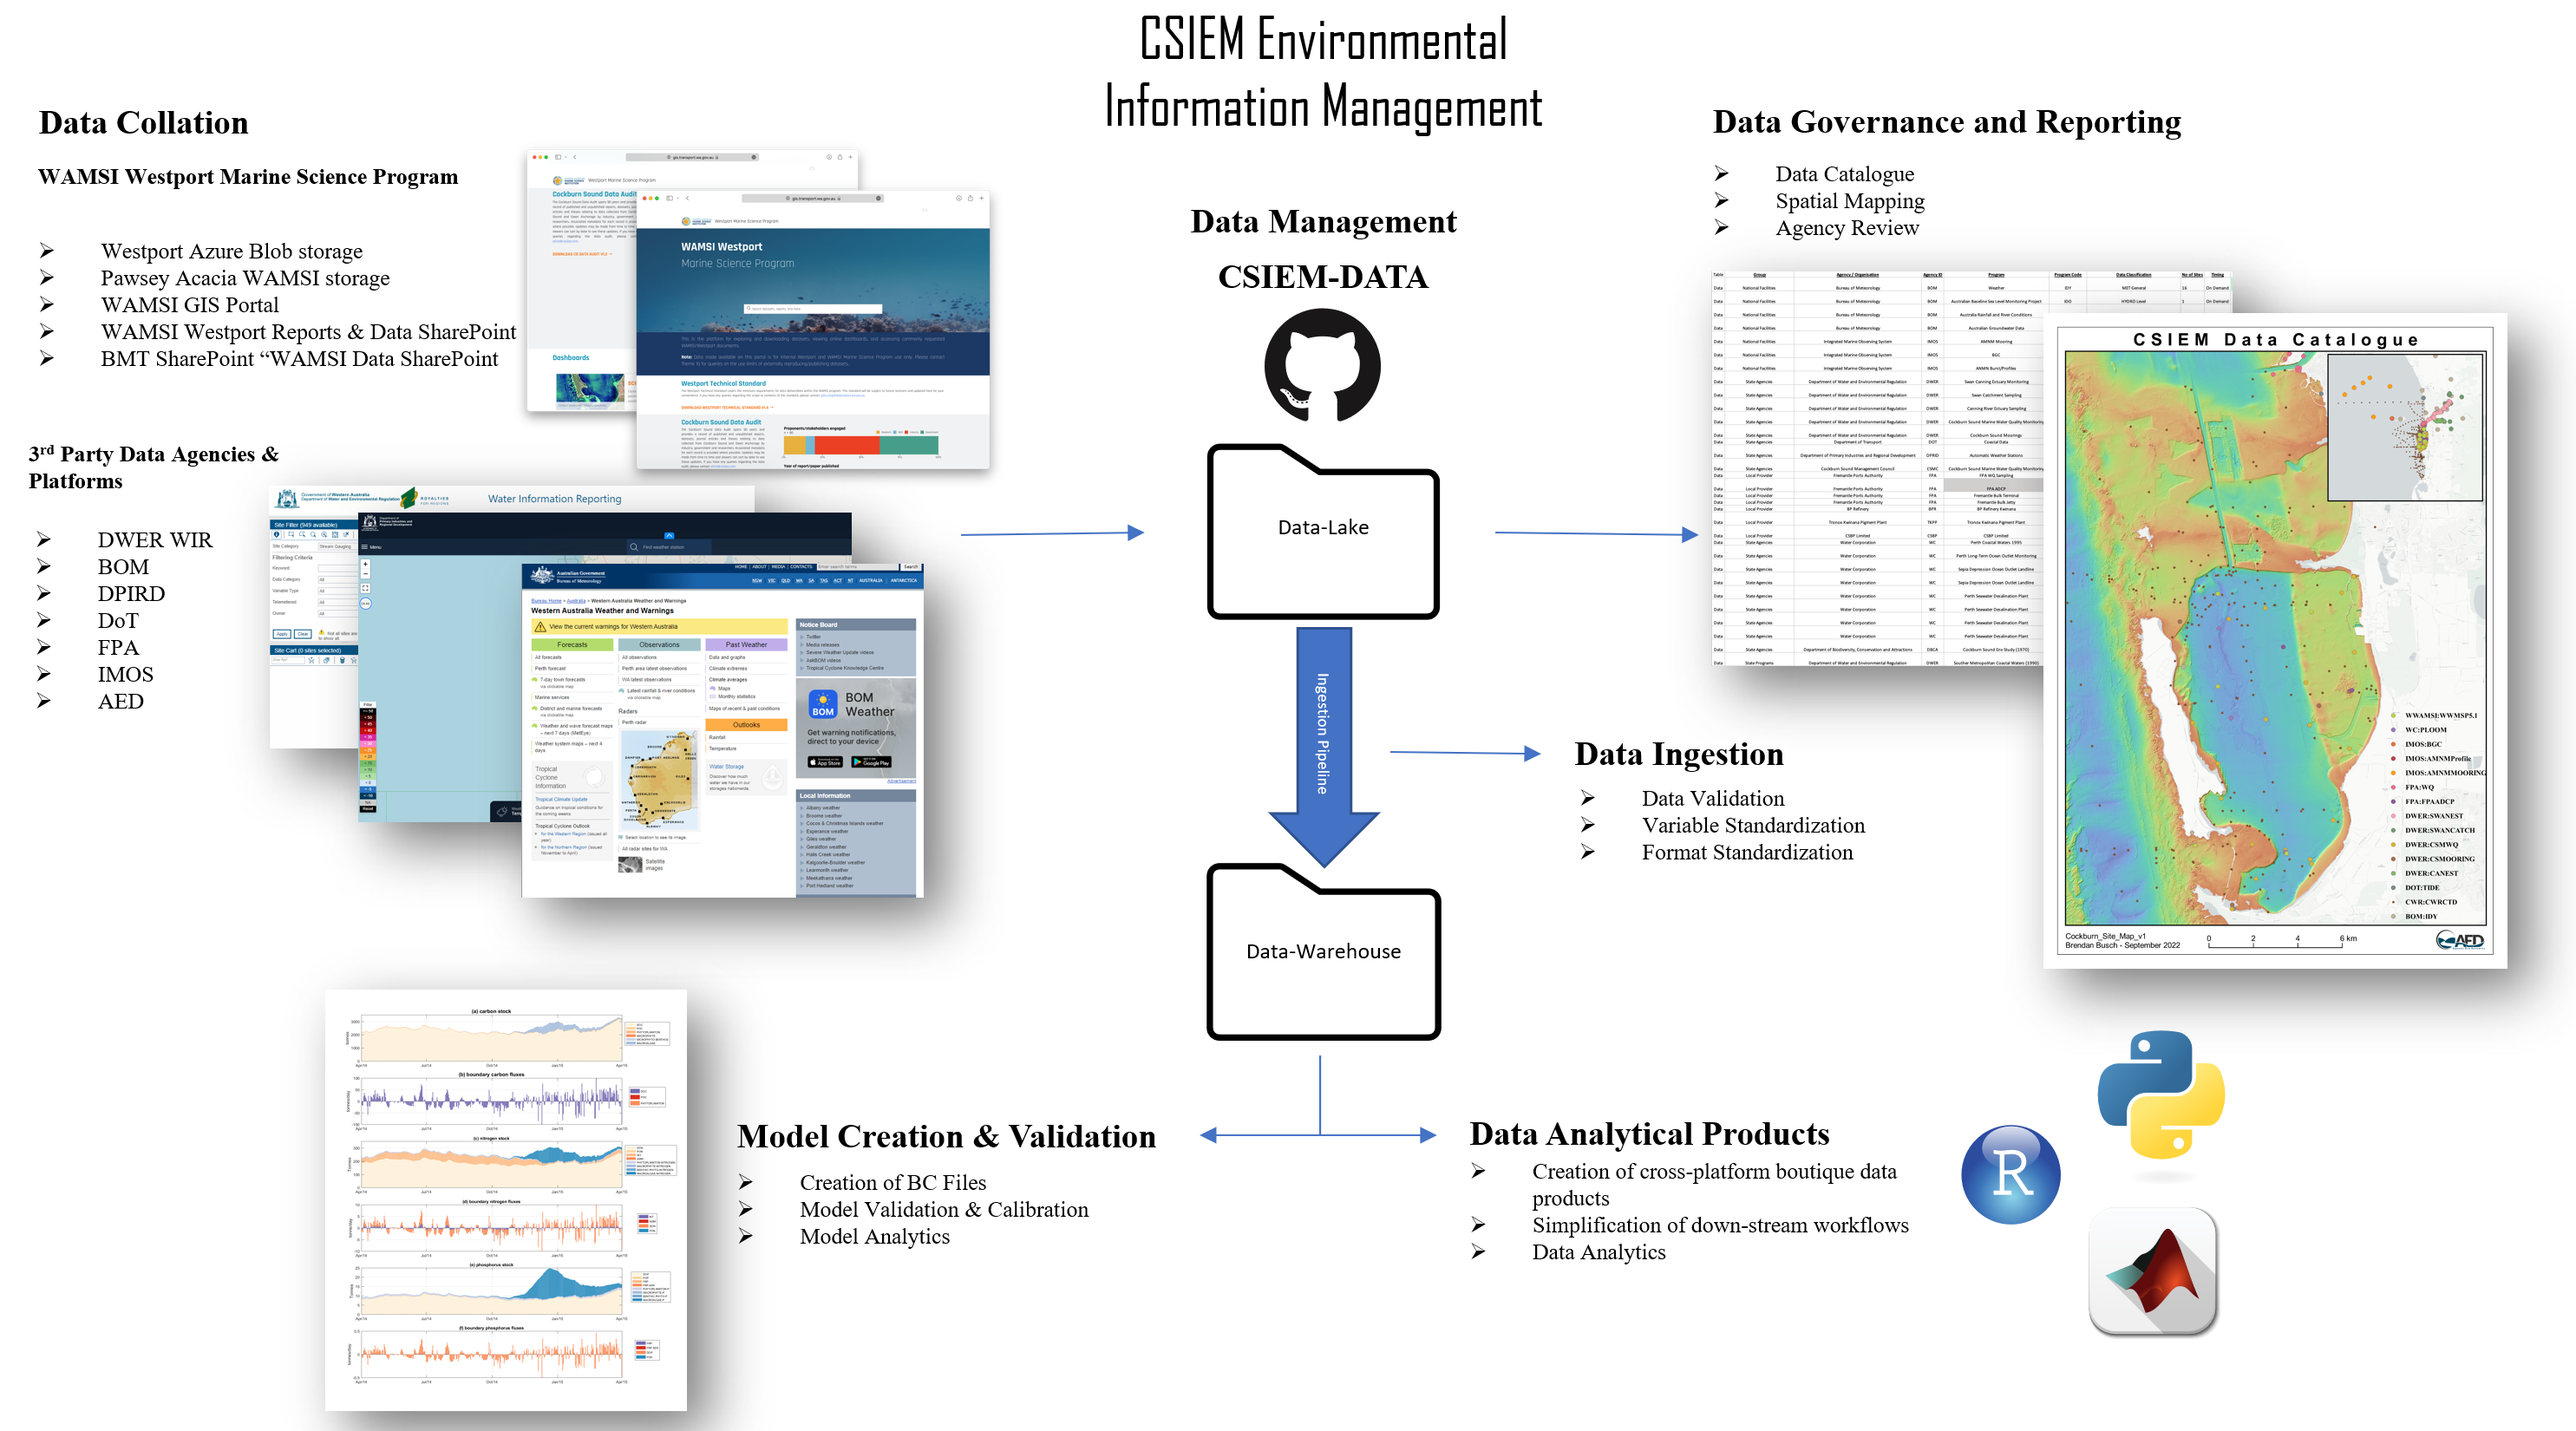
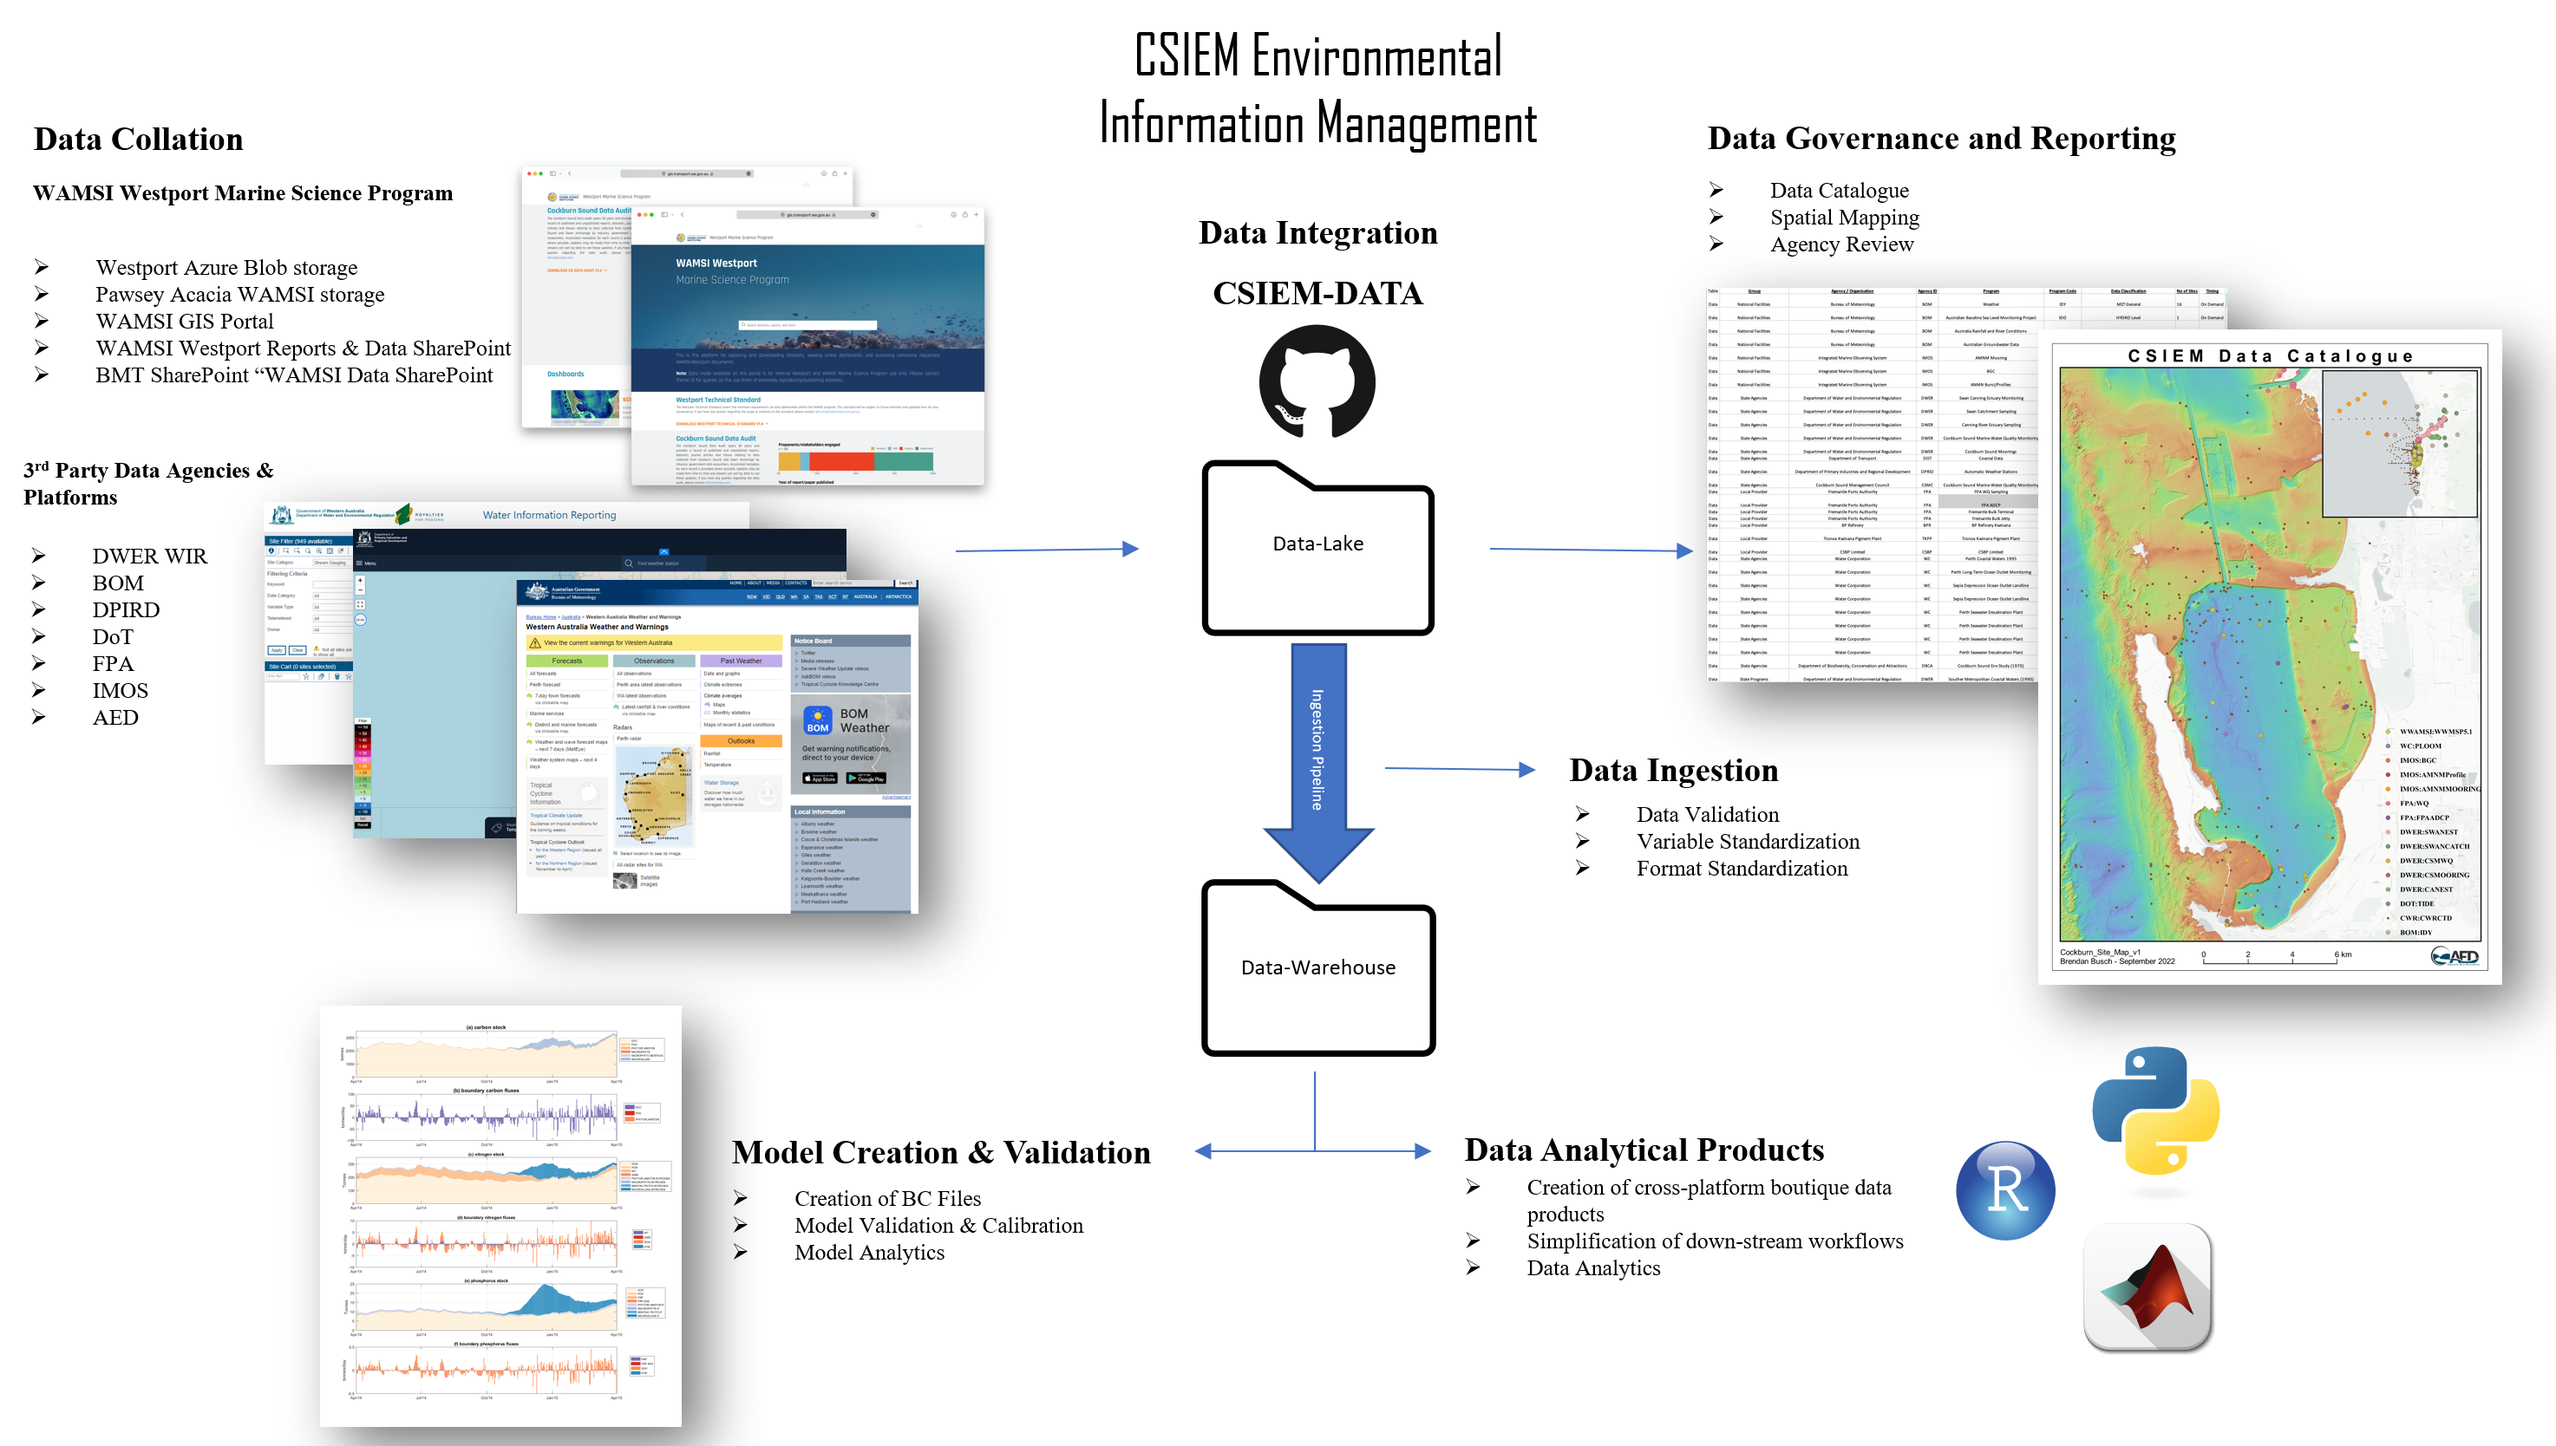
rebuild site

diff --git a/docs/cockburn-environmental-data.html b/docs/cockburn-environmental-data.html
@@ -165,13 +165,13 @@ Figure 3.3: Pawsey Acacia Storage.
 <li>Entry point for new data generators</li>
 <li>Standards for data users</li>
 <li>Developed compiled data products for ease of use</li>
-<li>Facilitate model and data integration (e.g. …)</li>
+<li>Facilitate model and data integration for visualisation and analytics</li>
 </ul>
 <p>CSIEM Environmental Information Management can be viewed as three separate systems:</p>
 <ul>
 <li>Data Collation</li>
 <li>Data Governance &amp; Reporting</li>
-<li>Data Management</li>
+<li>Data Integration</li>
 </ul>
 <div class="text-image">
 <div class="figure">
@@ -185,7 +185,16 @@ Figure 3.4: CSIEM Environmental Information Management Overview.
 <h3>
 <span class="header-section-number">3.3.1</span> Data Collation<a class="anchor" aria-label="anchor" href="#data-collation"><i class="fas fa-link"></i></a>
 </h3>
-<p>Overview of assets. Image of data flowwing into the lake</p>
+<p>Data that is sourced and collated from various government agencies, researchers and industry groups is stored in the data lake (see section 3.3.3) in their raw format. Each data provider is assigned a unique agency and program identifiers. Raw data is stored in a rigid folder structure based on these two identifiers (Agency/Program/…).</p>
+<div class="text-image">
+<div class="figure">
+<span style="display:block;" id="fig:data-pic5"></span>
+<img src="images/cdm/data_collation.png" alt="CSIEM Environmental Information Management Overview." width="100%"><p class="caption">
+Figure 3.5: CSIEM Environmental Information Management Overview.
+</p>
+</div>
+</div>
+<p>Data stored within the data lake is not formatted or processed in any way. Removal of duplicated and depeciated datasets is handled by the ETL (<strong>“Extract, Transform, Load”</strong>) pipelines outlined in secion 3.3.3. As such, strict data governance is required to maintain control and understanding of the contents of the data lake.</p>
 </div>
 <div id="data-governance" class="section level3" number="3.3.2">
 <h3>
@@ -407,9 +416,9 @@ Bathymetric data
 </h4>
 </div>
 </div>
-<div id="data-management" class="section level3" number="3.3.3">
+<div id="data-integration" class="section level3" number="3.3.3">
 <h3>
-<span class="header-section-number">3.3.3</span> Data Management<a class="anchor" aria-label="anchor" href="#data-management"><i class="fas fa-link"></i></a>
+<span class="header-section-number">3.3.3</span> Data Integration<a class="anchor" aria-label="anchor" href="#data-integration"><i class="fas fa-link"></i></a>
 </h3>
 <div id="github" class="section level4" number="3.3.3.1">
 <h4>
@@ -715,7 +724,7 @@ while (i < img.length) {
 <a class="nav-link" href="#csiem-environmental-information-management"><span class="header-section-number">3.3</span> CSIEM Environmental Information Management</a><ul class="nav navbar-nav">
 <li><a class="nav-link" href="#data-collation"><span class="header-section-number">3.3.1</span> Data Collation</a></li>
 <li><a class="nav-link" href="#data-governance"><span class="header-section-number">3.3.2</span> Data Governance</a></li>
-<li><a class="nav-link" href="#data-management"><span class="header-section-number">3.3.3</span> Data Management</a></li>
+<li><a class="nav-link" href="#data-integration"><span class="header-section-number">3.3.3</span> Data Integration</a></li>
 </ul>
 </li>
 <li><a class="nav-link" href="#model-management"><span class="header-section-number">3.4</span> Model Management</a></li>
@@ -735,7 +744,7 @@ while (i < img.length) {
 <footer class="bg-primary text-light mt-5"><div class="container"><div class="row">
 
   <div class="col-12 col-md-6 mt-3">
-    <p>"<strong>The Cockburn Sound Integrated Ecosystem Model</strong>" was written by AED. It was last built on 12-September-2022.</p>
+    <p>"<strong>The Cockburn Sound Integrated Ecosystem Model</strong>" was written by AED. It was last built on 13-September-2022.</p>
   </div>
 
   <div class="col-12 col-md-6 mt-3">

diff --git a/docs/appendix-a-data-catalogue.html b/docs/appendix-a-data-catalogue.html
@@ -1452,7 +1452,7 @@ while (i < img.length) {
 <footer class="bg-primary text-light mt-5"><div class="container"><div class="row">
 
   <div class="col-12 col-md-6 mt-3">
-    <p>"<strong>The Cockburn Sound Integrated Ecosystem Model</strong>" was written by AED. It was last built on 12-September-2022.</p>
+    <p>"<strong>The Cockburn Sound Integrated Ecosystem Model</strong>" was written by AED. It was last built on 13-September-2022.</p>
   </div>
 
   <div class="col-12 col-md-6 mt-3">

diff --git a/docs/404.html b/docs/404.html
@@ -110,7 +110,7 @@ while (i < img.length) {
 <footer class="bg-primary text-light mt-5"><div class="container"><div class="row">
 
   <div class="col-12 col-md-6 mt-3">
-    <p>"<strong>The Cockburn Sound Integrated Ecosystem Model</strong>" was written by AED. It was last built on 12-September-2022.</p>
+    <p>"<strong>The Cockburn Sound Integrated Ecosystem Model</strong>" was written by AED. It was last built on 13-September-2022.</p>
   </div>
 
   <div class="col-12 col-md-6 mt-3">

diff --git a/docs/appendix-b-results-archive.html b/docs/appendix-b-results-archive.html
@@ -765,7 +765,7 @@ while (i < img.length) {
 <footer class="bg-primary text-light mt-5"><div class="container"><div class="row">
 
   <div class="col-12 col-md-6 mt-3">
-    <p>"<strong>The Cockburn Sound Integrated Ecosystem Model</strong>" was written by AED. It was last built on 12-September-2022.</p>
+    <p>"<strong>The Cockburn Sound Integrated Ecosystem Model</strong>" was written by AED. It was last built on 13-September-2022.</p>
   </div>
 
   <div class="col-12 col-md-6 mt-3">

diff --git a/docs/csiem-model-overview.html b/docs/csiem-model-overview.html
@@ -119,7 +119,7 @@ while (i < img.length) {
 <footer class="bg-primary text-light mt-5"><div class="container"><div class="row">
 
   <div class="col-12 col-md-6 mt-3">
-    <p>"<strong>The Cockburn Sound Integrated Ecosystem Model</strong>" was written by AED. It was last built on 12-September-2022.</p>
+    <p>"<strong>The Cockburn Sound Integrated Ecosystem Model</strong>" was written by AED. It was last built on 13-September-2022.</p>
   </div>
 
   <div class="col-12 col-md-6 mt-3">

diff --git a/docs/index.html b/docs/index.html
@@ -186,7 +186,7 @@ while (i < img.length) {
 <footer class="bg-primary text-light mt-5"><div class="container"><div class="row">
 
   <div class="col-12 col-md-6 mt-3">
-    <p>"<strong>The Cockburn Sound Integrated Ecosystem Model</strong>" was written by AED. It was last built on 12-September-2022.</p>
+    <p>"<strong>The Cockburn Sound Integrated Ecosystem Model</strong>" was written by AED. It was last built on 13-September-2022.</p>
   </div>
 
   <div class="col-12 col-md-6 mt-3">

diff --git a/docs/integrated-assessment.html b/docs/integrated-assessment.html
@@ -242,7 +242,7 @@ while (i < img.length) {
 <footer class="bg-primary text-light mt-5"><div class="container"><div class="row">
 
   <div class="col-12 col-md-6 mt-3">
-    <p>"<strong>The Cockburn Sound Integrated Ecosystem Model</strong>" was written by AED. It was last built on 12-September-2022.</p>
+    <p>"<strong>The Cockburn Sound Integrated Ecosystem Model</strong>" was written by AED. It was last built on 13-September-2022.</p>
   </div>
 
   <div class="col-12 col-md-6 mt-3">

diff --git a/docs/introduction.html b/docs/introduction.html
@@ -118,7 +118,7 @@ while (i < img.length) {
 <footer class="bg-primary text-light mt-5"><div class="container"><div class="row">
 
   <div class="col-12 col-md-6 mt-3">
-    <p>"<strong>The Cockburn Sound Integrated Ecosystem Model</strong>" was written by AED. It was last built on 12-September-2022.</p>
+    <p>"<strong>The Cockburn Sound Integrated Ecosystem Model</strong>" was written by AED. It was last built on 13-September-2022.</p>
   </div>
 
   <div class="col-12 col-md-6 mt-3">

diff --git a/docs/model-data-organisation.html b/docs/model-data-organisation.html
@@ -736,7 +736,7 @@ while (i < img.length) {
 <footer class="bg-primary text-light mt-5"><div class="container"><div class="row">
 
   <div class="col-12 col-md-6 mt-3">
-    <p>"<strong>The Cockburn Sound Integrated Ecosystem Model</strong>" was written by AED. It was last built on 12-September-2022.</p>
+    <p>"<strong>The Cockburn Sound Integrated Ecosystem Model</strong>" was written by AED. It was last built on 13-September-2022.</p>
   </div>
 
   <div class="col-12 col-md-6 mt-3">

diff --git a/docs/references.html b/docs/references.html
@@ -120,7 +120,7 @@ while (i < img.length) {
 <footer class="bg-primary text-light mt-5"><div class="container"><div class="row">
 
   <div class="col-12 col-md-6 mt-3">
-    <p>"<strong>The Cockburn Sound Integrated Ecosystem Model</strong>" was written by AED. It was last built on 12-September-2022.</p>
+    <p>"<strong>The Cockburn Sound Integrated Ecosystem Model</strong>" was written by AED. It was last built on 13-September-2022.</p>
   </div>
 
   <div class="col-12 col-md-6 mt-3">
